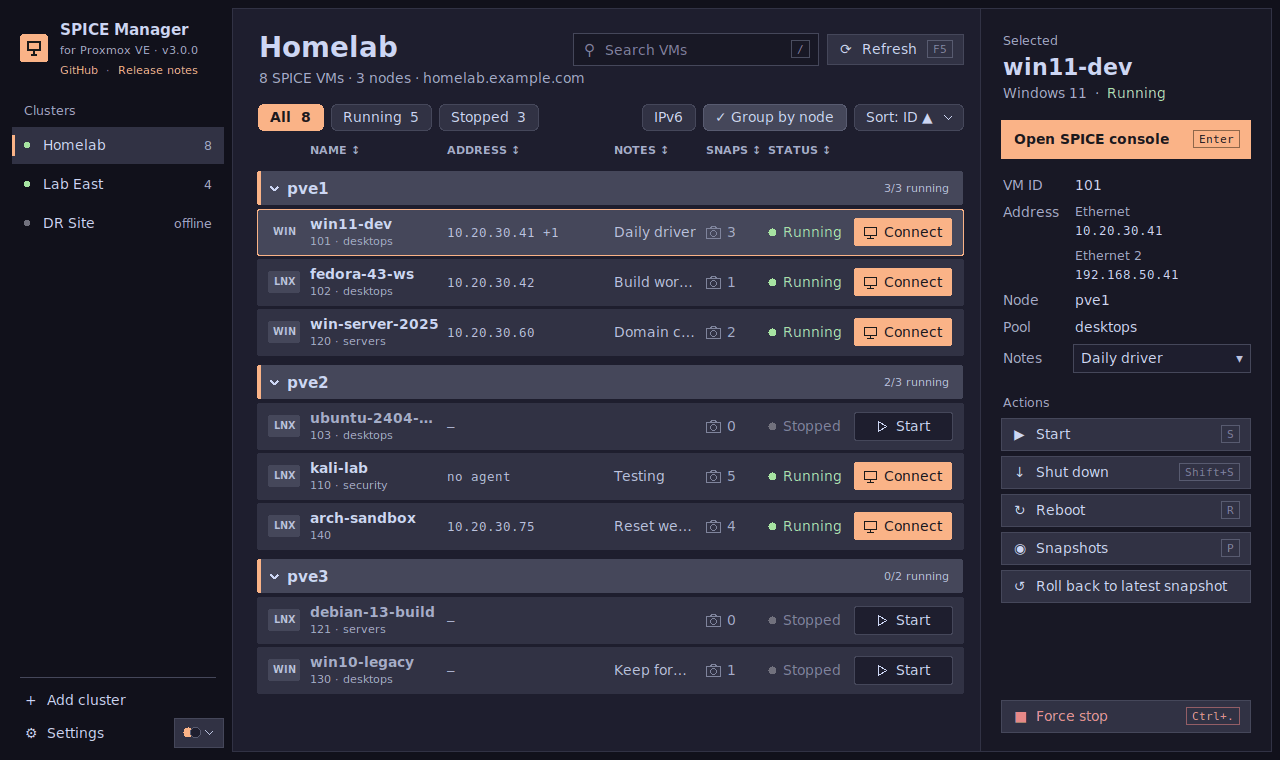
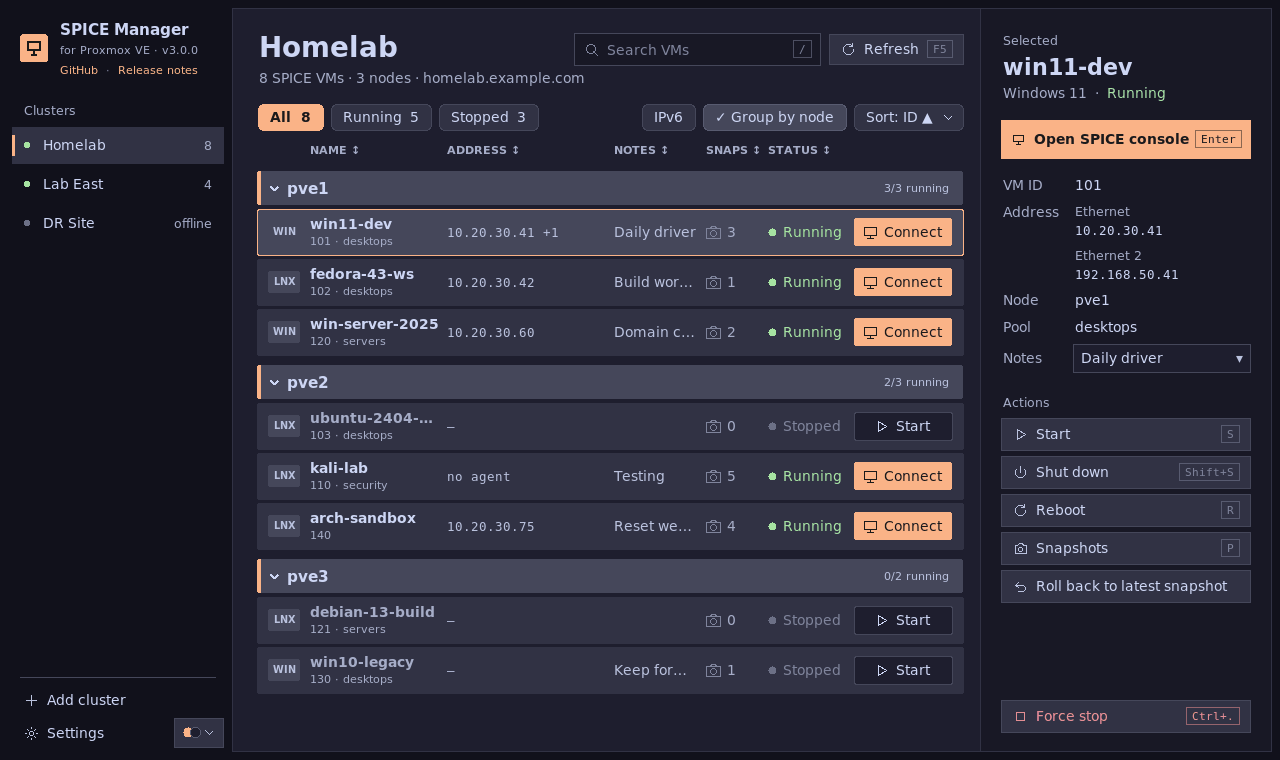
fix: keep Refresh's label after a narrow window; simpler README
Since b46e891 every button cut its text to fit with an ellipsis, so after the
window was narrow and then widened, Refresh kept "R…": it had sized itself to
the cut text. Only the details panel's buttons, which fill a fixed width, cut
their text now.

README: getting started in three steps near the top, shorter features and
security, one configuration table, and three stale statements fixed (the
refresh polling tip, "IP column", and a reference to gaps that aren't listed).
The Linux screenshots show the new icons.

Screenshots: the Windows harness resets grouping and sort first; its Wine
config kept the last run's flat list sorted by address.

Claude-Session: https://claude.ai/code/session_01HdJcqVTvjPi51AjfwREd13

diff --git a/proxmox-spice-manager.py b/proxmox-spice-manager.py
@@ -1254,7 +1254,7 @@ class ActionButton(tk.Frame):
     disabled state. tk.Button can't hold a right-aligned key hint."""
 
     def __init__(self, master, text, command, icon="", key="", bg=None, fg=None,
-                 hover_bg=None, border=None, bold=False, pady=6, padx=10, icon_fg=None):
+                 hover_bg=None, border=None, bold=False, pady=6, padx=10, icon_fg=None, elide=False):
         bg = bg or C["surface0"]
         super().__init__(master, bg=bg, highlightthickness=1,
                          highlightbackground=border or C["surface1"], cursor="hand2")
@@ -1290,8 +1290,12 @@ class ActionButton(tk.Frame):
         self.label.pack(side="left", fill="x", expand=True)
         self._parts.append(self.label)
         self._labels.append(self.label)
-        # Too narrow for the text: cut it with an ellipsis rather than mid-letter
-        self.label.bind("<Configure>", lambda e: self._fit_text())
+        # A button stretched to a fixed width (elide=True): text too long for it ends in
+        # an ellipsis rather than mid-letter. Only there: a button sized by its own text
+        # would shrink to the cut text and keep it.
+        self._elide = elide
+        if elide:
+            self.label.bind("<Configure>", lambda e: self._fit_text())
         for part in self._parts:
             part.bind("<Button-1>", self._click)
             part.bind("<Enter>", lambda e: self._paint(self._hover_bg))
@@ -1323,7 +1327,10 @@ class ActionButton(tk.Frame):
 
     def _fit_text(self):
         width = self.label.winfo_width()
-        text = self._text if width <= 1 else elide(self._text, width - 2, self._font)
+        if not self._elide or width <= 1:
+            text = self._text
+        else:
+            text = elide(self._text, width - 2, self._font)
         if self.label.cget("text") != text:
             self.label.config(text=text)
 
@@ -2443,6 +2450,7 @@ class ProxmoxSpiceManagerBase(tk.Tk):
         self._insp = insp
         ActionButton(
             insp, "Force stop", self._stop_vm, icon="stop", key="Ctrl+.", fg=C["red"], pady=5,
+            elide=True,
         ).pack(side="bottom", fill="x", padx=20, pady=(8, 18))
         # Everything above Force stop scrolls when the window is too short for it
         scroll = tk.Frame(insp, bg=bg)
@@ -2492,7 +2500,7 @@ class ProxmoxSpiceManagerBase(tk.Tk):
         self._console_btn = ActionButton(
             body, "Open SPICE console", self._launch_spice, icon="monitor", key="Enter",
             bg=C["accent"], fg=C["on_accent"], border=C["accent"],
-            hover_bg=mix(C["accent"], C["mantle"], 0.15), bold=True, pady=8, padx=8,
+            hover_bg=mix(C["accent"], C["mantle"], 0.15), bold=True, pady=8, padx=8, elide=True,
         )
         self._console_btn.pack(fill="x", pady=(16, 0))
 
@@ -2547,7 +2555,7 @@ class ProxmoxSpiceManagerBase(tk.Tk):
             ("snapshots", "camera", "Snapshots", "P", self._show_snapshots),
             ("rollback", "undo", "Roll back to latest snapshot", "", self._quick_rollback),
         ):
-            btn = ActionButton(body, text, command, icon=icon, key=hint, pady=5)
+            btn = ActionButton(body, text, command, icon=icon, key=hint, pady=5, elide=True)
             btn.pack(fill="x", pady=(0, 5))
             self._action_btns[key] = btn
 

diff --git a/tools/screenshots/windows/Shots.cs b/tools/screenshots/windows/Shots.cs
@@ -3,6 +3,7 @@ using System.IO;
 using System.Reflection;
 using System.Windows;
 using System.Windows.Controls;
+using System.Windows.Controls.Primitives;
 using System.Windows.Markup;
 using System.Windows.Media;
 using System.Windows.Media.Imaging;
@@ -221,6 +222,15 @@ static class Program
     static void Populate(MainWindow w)
     {
         var config = Get<AppConfig>(w, "_config");
+        // The config is the Wine prefix's own, which the state shots change and the app saves;
+        // start every run from the defaults
+        config.GroupByNode = true;
+        config.VmSort = "vmid";
+        config.VmSortDesc = false;
+        config.ShowIpv6 = false;
+        ((ToggleButton)w.FindName("GroupToggle")).IsChecked = true;
+        ((ToggleButton)w.FindName("Ipv6Toggle")).IsChecked = false;
+        Call(w, "ApplySortAndGrouping");
         config.Clusters.Clear();
         foreach (var name in new[] { "Homelab", "Lab East", "DR Site" })
             config.Clusters.Add(new ClusterConfig { Name = name, Host = $"https://{name.ToLowerInvariant().Replace(' ', '-')}.example.com:8006" });

diff --git a/README.md b/README.md
@@ -1,104 +1,76 @@
 # Proxmox SPICE Connection Manager
 
-A desktop GUI application for managing and launching SPICE console sessions to Proxmox VE virtual machines. No browser required.
+Open SPICE consoles to your Proxmox VE virtual machines from a desktop app, without the browser.
 
-Proxmox's default noVNC console runs in a browser tab. SPICE opens the VM in a native window instead: smoother for everyday desktop use, with a shared clipboard, a display that resizes with the window, sound, USB redirection, and multiple monitors. It's meant for VMs running a desktop operating system; use SSH for headless servers. See [SPICE or noVNC?](proxmox-setup.md#spice-or-novnc) for details.
-
-- **Windows** — native WPF app (C#/.NET 8), single-file exe with zero dependencies
-- **Linux** — Python + tkinter
+Proxmox's default noVNC console runs in a browser tab. SPICE opens the VM in a native window instead: smoother for everyday desktop use, with a shared clipboard, a display that resizes with the window, sound, USB redirection and multiple monitors. It's meant for VMs running a desktop operating system; use SSH for headless servers. See [SPICE or noVNC?](proxmox-setup.md#spice-or-novnc)
 
 ![Platform](https://img.shields.io/badge/platform-Linux%20%7C%20Windows-blue)
 ![License](https://img.shields.io/badge/license-MIT-green)
 
 **Current version: 3.0.0** · [GitHub](https://github.com/darthrater78/proxmoxspicemanager) · [Release notes](https://github.com/darthrater78/proxmoxspicemanager/releases/tag/v3.0.0) · [Changelog](CHANGELOG.md)
 
-Both platforms share one version number, and each release carries both the Windows exe and the Linux script.
-
 ![The Windows app: clusters on the left, the VMs of the selected cluster grouped by node, and the selected VM's details and actions on the right](docs/screenshots/windows-main.png)
 
-## Screenshots
+## Getting started
 
-The Linux app has the same layout, drawn with tkinter:
+1. **Set up Proxmox:** a user and role, an API token or a username and password, and SPICE as your VMs' display → [proxmox-setup.md](proxmox-setup.md)
+2. **Install the SPICE client** (`remote-viewer`, from virt-viewer):
+   - Windows: the virt-viewer MSI from [spice-space.org](https://www.spice-space.org/download.html)
+   - Fedora: `sudo dnf install python3-tkinter python3-keyring virt-viewer`
+   - Debian/Ubuntu: `sudo apt install python3-tk python3-keyring virt-viewer`
+3. **Download the app** from [Releases](../../releases/latest):
+   - Windows: `Proxmox-SPICE-Manager.exe`, a single file with nothing else to install
+   - Linux: `proxmox-spice-manager.py` → walkthrough in [linux-setup.md](linux-setup.md)
 
-![The Linux app's main window](docs/screenshots/linux-main.png)
-
-Select several VMs with Ctrl-click or Shift-click to start, shut down or reboot them together:
-
-![Three VMs selected, with the actions panel acting on all of them](docs/screenshots/multi-select.png)
-
-Turn off **Group by node** for one flat list, sortable by any column (here by address):
-
-![The VM list ungrouped and sorted by IP address](docs/screenshots/flat-list.png)
-
-Five themes and seven accent colours, picked from the Appearance button next to Settings:
-
-![The main window in Catppuccin Mocha, Catppuccin Latte, Nord, Dracula and OLED Dark, and the Appearance flyout](docs/screenshots/themes.png)
-
-The Settings menu (Linux shown) holds cluster editing, import and export, the debug log, the prerequisite checker and app menu integration:
-
-![The Linux Settings menu open](docs/screenshots/linux-settings.png)
-
-Screenshots use mock clusters and VMs; `tools/screenshots/` renders them (see [its README](tools/screenshots/README.md)).
+Both apps share one version, and every release carries both files.
 
 ## Features
 
-- **Multi-cluster management** — connect to multiple Proxmox clusters, each with an API token (saved securely) or a username and password (the password is asked for, never saved)
-- **Auto-discovery** — automatically detects SPICE-enabled VMs across all cluster nodes
-- **Live IP address** — shows each running VM's IP via QEMU guest agent (requires `VM.GuestAgent.Audit` permission)
-- **One-click SPICE launch** — opens `remote-viewer` sessions from a VM's Connect button, a double-click, or Enter
-- **VMs grouped by node, or one flat list** — each node shows how many of its VMs are running; sort by any column, search by name, ID, IP, pool, notes or OS, and filter to running or stopped VMs
-- **VM power controls** — Start, ACPI Shutdown, Reboot and Force Stop; Ctrl-click or Shift-click to act on several VMs at once
-- **Keyboard shortcuts** — Enter opens the console, S starts, Shift+S shuts down, R reboots, P opens snapshots, Ctrl+. force stops, / searches, F5 refreshes
-- **Snapshot management** — create, rollback, and delete snapshots with a full dialog, plus quick-rollback to the latest snapshot
-- **Secure credential storage** — Linux: OS keyring (GNOME Keyring, KDE Wallet, etc.); Windows: DPAPI encryption tied to your Windows user account
-- **5 built-in themes and 7 accent colours** — Catppuccin Mocha, Catppuccin Latte, Nord, Dracula, OLED Dark; orange accent by default, switchable from the Appearance button next to Settings
-- **Import / Export** — share cluster configurations between machines (with plaintext secret warning on export)
-- **App menu integration** — install as a desktop app (Linux: `.desktop` file; Windows: Start Menu shortcut). On Linux, Settings → **Export .desktop for selected VM** also adds a menu entry that opens that one VM's console directly (`proxmox-spice-manager.py --connect "<cluster>" <vmid>`), offering to start the VM first
-- **Prerequisite checker** — first-run dialog detects missing dependencies and helps you install them
-- **Debug logging** — optional timestamped log file for diagnosing API connectivity issues (toggle in the Settings menu; Linux: `~/.config/proxmox-spice/debug.log`, Windows: `%APPDATA%\proxmox-spice\debug.log`)
+- **Several clusters**, each logging in with an API token (stored securely) or a username and password (asked for, never saved)
+- **Every SPICE-enabled VM** across a cluster's nodes, grouped by node or in one flat list; search, filter to running or stopped, and sort by any column
+- **One-click consoles** from a VM's Connect button, a double-click or Enter
+- **Guest addresses** per network adapter from the QEMU guest agent, with an IPv6 toggle
+- **Power and snapshots:** start, shut down, reboot, force stop, and create, roll back or delete snapshots; select several VMs with Ctrl- or Shift-click to act on them together. The list refreshes as soon as Proxmox finishes the task
+- **Keyboard shortcuts:** Enter opens the console, S starts, Shift+S shuts down, R reboots, P opens snapshots, Ctrl+. force stops, / searches, F5 refreshes
+- **Notes** of your own per VM, alongside the VM's notes from Proxmox
+- **Five themes and seven accent colours**
+- **Import and export** of clusters, between machines and between the two apps
+- **App menu entries:** the app itself (Linux `.desktop` file, Windows Start Menu), and on Linux one entry per VM that opens its console directly (`--connect "<cluster>" <vmid>`)
 
-## Requirements
+## Screenshots
 
-### Windows (WPF app)
+The Linux app has the same layout:
 
-| Dependency | How to install |
-|---|---|
-| virt-viewer | [spice-space.org/download.html](https://www.spice-space.org/download.html) — install the Windows MSI |
+![The Linux app's main window](docs/screenshots/linux-main.png)
 
-The WPF app is a self-contained single-file exe — no Python, no .NET runtime install needed.
+Several VMs selected, with the actions panel acting on all of them:
 
-### Linux
+![Three VMs selected, with the actions panel acting on all of them](docs/screenshots/multi-select.png)
 
-| Dependency | Fedora | Debian/Ubuntu |
-|---|---|---|
-| tkinter | `python3-tkinter` | `python3-tk` |
-| keyring | `python3-keyring` | `python3-keyring` |
-| virt-viewer | `virt-viewer` | `virt-viewer` |
+One flat list, sorted by address:
 
-**Fedora (one-liner):**
+![The VM list ungrouped and sorted by IP address](docs/screenshots/flat-list.png)
 
-```bash
-sudo dnf install python3-tkinter python3-keyring virt-viewer
-```
+The five themes, and the Appearance flyout next to Settings:
 
-**Debian/Ubuntu (one-liner):**
+![The main window in Catppuccin Mocha, Catppuccin Latte, Nord, Dracula and OLED Dark, and the Appearance flyout](docs/screenshots/themes.png)
 
-```bash
-sudo apt install python3-tk python3-keyring virt-viewer
-```
+The Settings menu: clusters, import and export, the debug log, prerequisites and app menu entries:
 
-## Getting Started
+![The Linux Settings menu open](docs/screenshots/linux-settings.png)
 
-> [!IMPORTANT]
-> **Step 1 — Configure Proxmox first:** create a user and role, choose an API token or username and password login, install the SPICE client, and switch your VMs' display to SPICE → [proxmox-setup.md](proxmox-setup.md)
->
-> **Then install the app for your platform:**
-> - **Windows** — download `Proxmox-SPICE-Manager.exe` from [Releases](../../releases/latest)
-> - **Linux** — download `proxmox-spice-manager.py` from [Releases](../../releases/latest) and run it (Fedora/Debian walkthrough with screenshots) → [linux-setup.md](linux-setup.md)
+Screenshots use mock clusters; [`tools/screenshots/`](tools/screenshots/README.md) renders them.
+
+## Security
+
+- **Token secrets** are kept in the OS keyring on Linux (GNOME Keyring, KDE Wallet, …), and encrypted with DPAPI on Windows, which only your Windows account can decrypt. Neither app writes a secret to its config file in plain text.
+- **Passwords** are never saved. The app asks when it connects, keeps Proxmox's login ticket in memory, and renews it every hour.
+- **Certificates:** one signed by a CA your system trusts just works. Proxmox's self-signed certificate is shown with its SHA-256 fingerprint the first time; compare it with Node → System → Certificates in Proxmox, confirm, and the app pins it for that cluster, like an SSH host key. A different certificate later brings up a warning before anything is sent. Plain `http://` hosts are refused.
+- **Export files** contain secrets in plain text. Keep them safe and delete them once imported.
 
 ### Verifying a download
 
-Release files are built by GitHub Actions from the tagged commit. Each release has a `SHA256SUMS` file, and both files carry a build provenance attestation that you can check with the [GitHub CLI](https://cli.github.com/):
+Releases are built by GitHub Actions from the tagged commit. Check a download against `SHA256SUMS`, or its build provenance with the [GitHub CLI](https://cli.github.com/):
 
 ```bash
 sha256sum -c SHA256SUMS --ignore-missing
@@ -108,65 +80,25 @@ gh attestation verify proxmox-spice-manager.py -R darthrater78/proxmoxspicemanag
 
 ## Configuration
 
-### Config file locations
+| | Linux | Windows |
+|---|---|---|
+| Config | `~/.config/proxmox-spice/connections.json` | `%APPDATA%\proxmox-spice\connections.json` |
+| Debug log (Settings → Debug log) | `~/.config/proxmox-spice/debug.log` | `%APPDATA%\proxmox-spice\debug.log` |
 
-| Platform | Path |
-|---|---|
-| Linux | `~/.config/proxmox-spice/connections.json` |
-| Windows | `%APPDATA%\proxmox-spice\connections.json` |
-
-The config file stores cluster definitions, theme and accent, VM notes, and (on Windows) DPAPI-encrypted token secrets. On Linux, secrets are stored separately in the OS keyring.
-
-### Import / Export
-
-Use Import clusters and Export clusters in the Settings menu to transfer cluster configurations between machines:
-
-- **Export** decrypts secrets and writes them as plaintext JSON — treat the exported file as sensitive
-- **Import** handles name collisions by appending "(Imported)" and moves each token secret into the keyring (Linux) or encrypts it with DPAPI (Windows); the plaintext is never saved in the config.
-- Export files are interchangeable: a file exported from either app imports into the other. Files exported by the Windows app before 3.0.0 import too. A Windows config file (not an export) holds DPAPI-encrypted secrets that only open for that Windows user; importing it elsewhere asks you to re-enter those secrets.
-
-## Security Notes
-
-- **Linux:** Token secrets are stored in your desktop environment's keyring (GNOME Keyring, KDE Wallet, etc.) via the `keyring` Python package. They are never written to the JSON config file.
-- **Windows:** Token secrets are encrypted using Windows DPAPI (`CryptProtectData`), which ties the encryption key to your Windows user account. The encrypted blobs are stored as base64 in `connections.json`. They cannot be decrypted by another user or on another machine.
-- **Password logins:** the password is never saved on either platform. The app asks for it when it connects, keeps the Proxmox login ticket in memory, and renews the ticket every hour while it runs.
-- **TLS:** Certificates signed by a CA your system trusts work as they are. Proxmox's own self-signed certificate is shown with its SHA-256 fingerprint the first time you connect; compare it with Node → System → Certificates → Fingerprint in Proxmox and confirm, and the app pins it for that cluster (like SSH host keys). After that only that certificate is accepted, and a changed one brings up a warning before anything is sent. The check happens before the API token or password leaves your machine. Host URLs must use `https://`; the apps refuse to save or log in to a plain `http://` URL.
-- **Export files** contain plaintext secrets — handle them accordingly.
-
-## Tips
-
-- **Clipboard sharing** requires `spice-vdagent` running inside the guest VM with a graphical session (not a raw TTY). For CLI-only VMs, use SSH for copy/paste.
-- **ACPI Shutdown** sends a graceful shutdown signal — the guest OS must handle ACPI events. **Force Stop** kills the QEMU process immediately (unsaved data will be lost).
-- **Polling** — after power or snapshot actions, the Linux app polls every 10 seconds (up to 2 minutes) for state changes, then refreshes the VM list. The Windows app waits a few seconds and refreshes once.
+The config holds your clusters, theme, accent and VM notes. **Import** renames a cluster whose name is taken ("(Imported)") and stores its secret securely. A file exported from either app imports into the other. A Windows *config* file, as opposed to an export, holds DPAPI-encrypted secrets that only open for that Windows user; importing it elsewhere asks for those secrets again.
 
 ## Troubleshooting
 
 | Problem | Solution |
 |---|---|
-| No VMs appear after connecting | Verify your API token has `VM.Audit` permission and that VMs use QXL display. Turn on the debug log in the Settings menu and check the log file for details (Linux: `~/.config/proxmox-spice/debug.log`, Windows: `%APPDATA%\proxmox-spice\debug.log`) |
-| IP column shows "no agent" | The VM does not have `agent: 1` enabled in its Proxmox config — this is expected |
-| IP column shows "agent error" | The QEMU guest agent is enabled but not responding — check that `qemu-guest-agent` is installed and running inside the VM |
-| "Token secret not found" error | Re-edit the cluster and re-enter the token secret |
-| SPICE window opens but is black | Install the guest tools inside the VM: on Windows, `virtio-win-guest-tools.exe` from the VirtIO ISO; on Linux, `spice-vdagent` (see [proxmox-setup.md](proxmox-setup.md#change-the-display)) |
-| remote-viewer not found (Windows) | Install virt-viewer from [spice-space.org](https://www.spice-space.org/download.html) and restart the app |
-| Clipboard not working | Ensure `spice-vdagent` is running in a graphical session, not a TTY |
+| No VMs appear | Check the user has `VM.Audit` and the VMs' display is SPICE. Turn on the debug log (Settings) and look at the log file |
+| Address shows "no agent" | The VM doesn't have the QEMU guest agent enabled in Proxmox (Options → QEMU Guest Agent) |
+| Address shows "agent error" | The agent is enabled but not answering: install and start `qemu-guest-agent` inside the VM. Addresses also need the `VM.GuestAgent.Audit` permission |
+| "Token secret not found" | Edit the cluster and enter the token secret again |
+| Console opens black, or no shared clipboard | Install the guest tools inside the VM: `virtio-win-guest-tools.exe` from the VirtIO ISO on Windows, `spice-vdagent` on Linux (it needs a graphical session). See [proxmox-setup.md](proxmox-setup.md#change-the-display) |
+| remote-viewer not found | Install virt-viewer (Getting started, step 2) and restart the app |
 
-## Project Structure
-
-```
-windows/                        # Native WPF Windows app (C#/.NET 8)
-proxmox-spice-manager.py        # Linux edition (standalone, single file)
-scripts/                        # check.sh, build.sh, version.sh (used by CI and locally)
-.github/                        # CI, release and workflow-lint workflows; Dependabot config
-CHANGELOG.md                    # Release history
-README.md                       # This file
-proxmox-setup.md                # Proxmox server config and app setup (all platforms)
-docs/screenshots/               # Screenshots shown in this README
-tools/screenshots/              # Renders screenshots of both apps with mock data
-linux-setup.md                  # Linux installation walkthrough with screenshots
-```
-
-The Linux script is a standalone single-file Python app. The WPF app in `windows/` is a standalone C#/.NET 8 project. Features are kept in parity where the platforms allow; the known gaps are noted above.
+**Shut down** asks the guest OS to shut down (it must handle ACPI). **Force stop** ends the VM at once, like pulling the plug.
 
 ## Development
 
@@ -176,8 +108,9 @@ bash scripts/check.sh    # version agreement, changelog entry, Python lint, shel
 bash scripts/build.sh    # Windows exe into dist/ (needs the .NET 8 SDK; works on Linux too)
 ```
 
-The version is declared in `windows/ProxmoxSpiceManager.csproj` and in `APP_VERSION` plus the docstring of `proxmox-spice-manager.py`; `scripts/version.sh` fails if they disagree. To release, merge a version bump with its `CHANGELOG.md` entry, then push a `vX.Y.Z` tag on `main`. A `vX.Y.Z-dev.N` tag on a branch builds a pre-release.
+- `windows/`: the Windows app (C#, WPF, .NET 8)
+- `proxmox-spice-manager.py`: the Linux app, one standalone file (Python, tkinter)
+- `scripts/`: the checks and build, used by CI and locally
+- `tools/screenshots/`: renders both apps with mock data
 
-## Version History
-
-See [CHANGELOG.md](CHANGELOG.md).
+Both apps are kept alike in look and behaviour. The version is declared in `windows/ProxmoxSpiceManager.csproj` and in `APP_VERSION` plus the docstring of `proxmox-spice-manager.py`, and `scripts/version.sh` fails if they disagree. To release, merge a version bump with its `CHANGELOG.md` entry, then push a `vX.Y.Z` tag on `main`. A `vX.Y.Z-dev.N` tag on a branch builds a pre-release.

diff --git a/tools/screenshots/README.md b/tools/screenshots/README.md
@@ -29,7 +29,7 @@ own, and the build. A first run takes under a minute.
 |---|---|
 | `windows-main.png`, `linux-main.png` | The main window, Catppuccin Mocha, first VM selected |
 | `*-main-<theme>.png` | The same in each theme |
-| `*-state-*.png` | Multi-select, search, the Running filter, a search with no matches, the flat list sorted by address, and (Linux) a folded node |
+| `*-state-*.png` | Multi-select, search, the Running filter, a search with no matches, the flat list sorted by address, the smallest window (1000×600, `*-state-small.png`), and (Linux) a folded node |
 | `linux-appearance.png`, `linux-settings.png` | The Linux popups (WPF popups can't be captured, see below) |
 | `proposal-*.png` | Design prototypes from `windows/proposals/` |
 | `shots.log` | Progress and errors |
